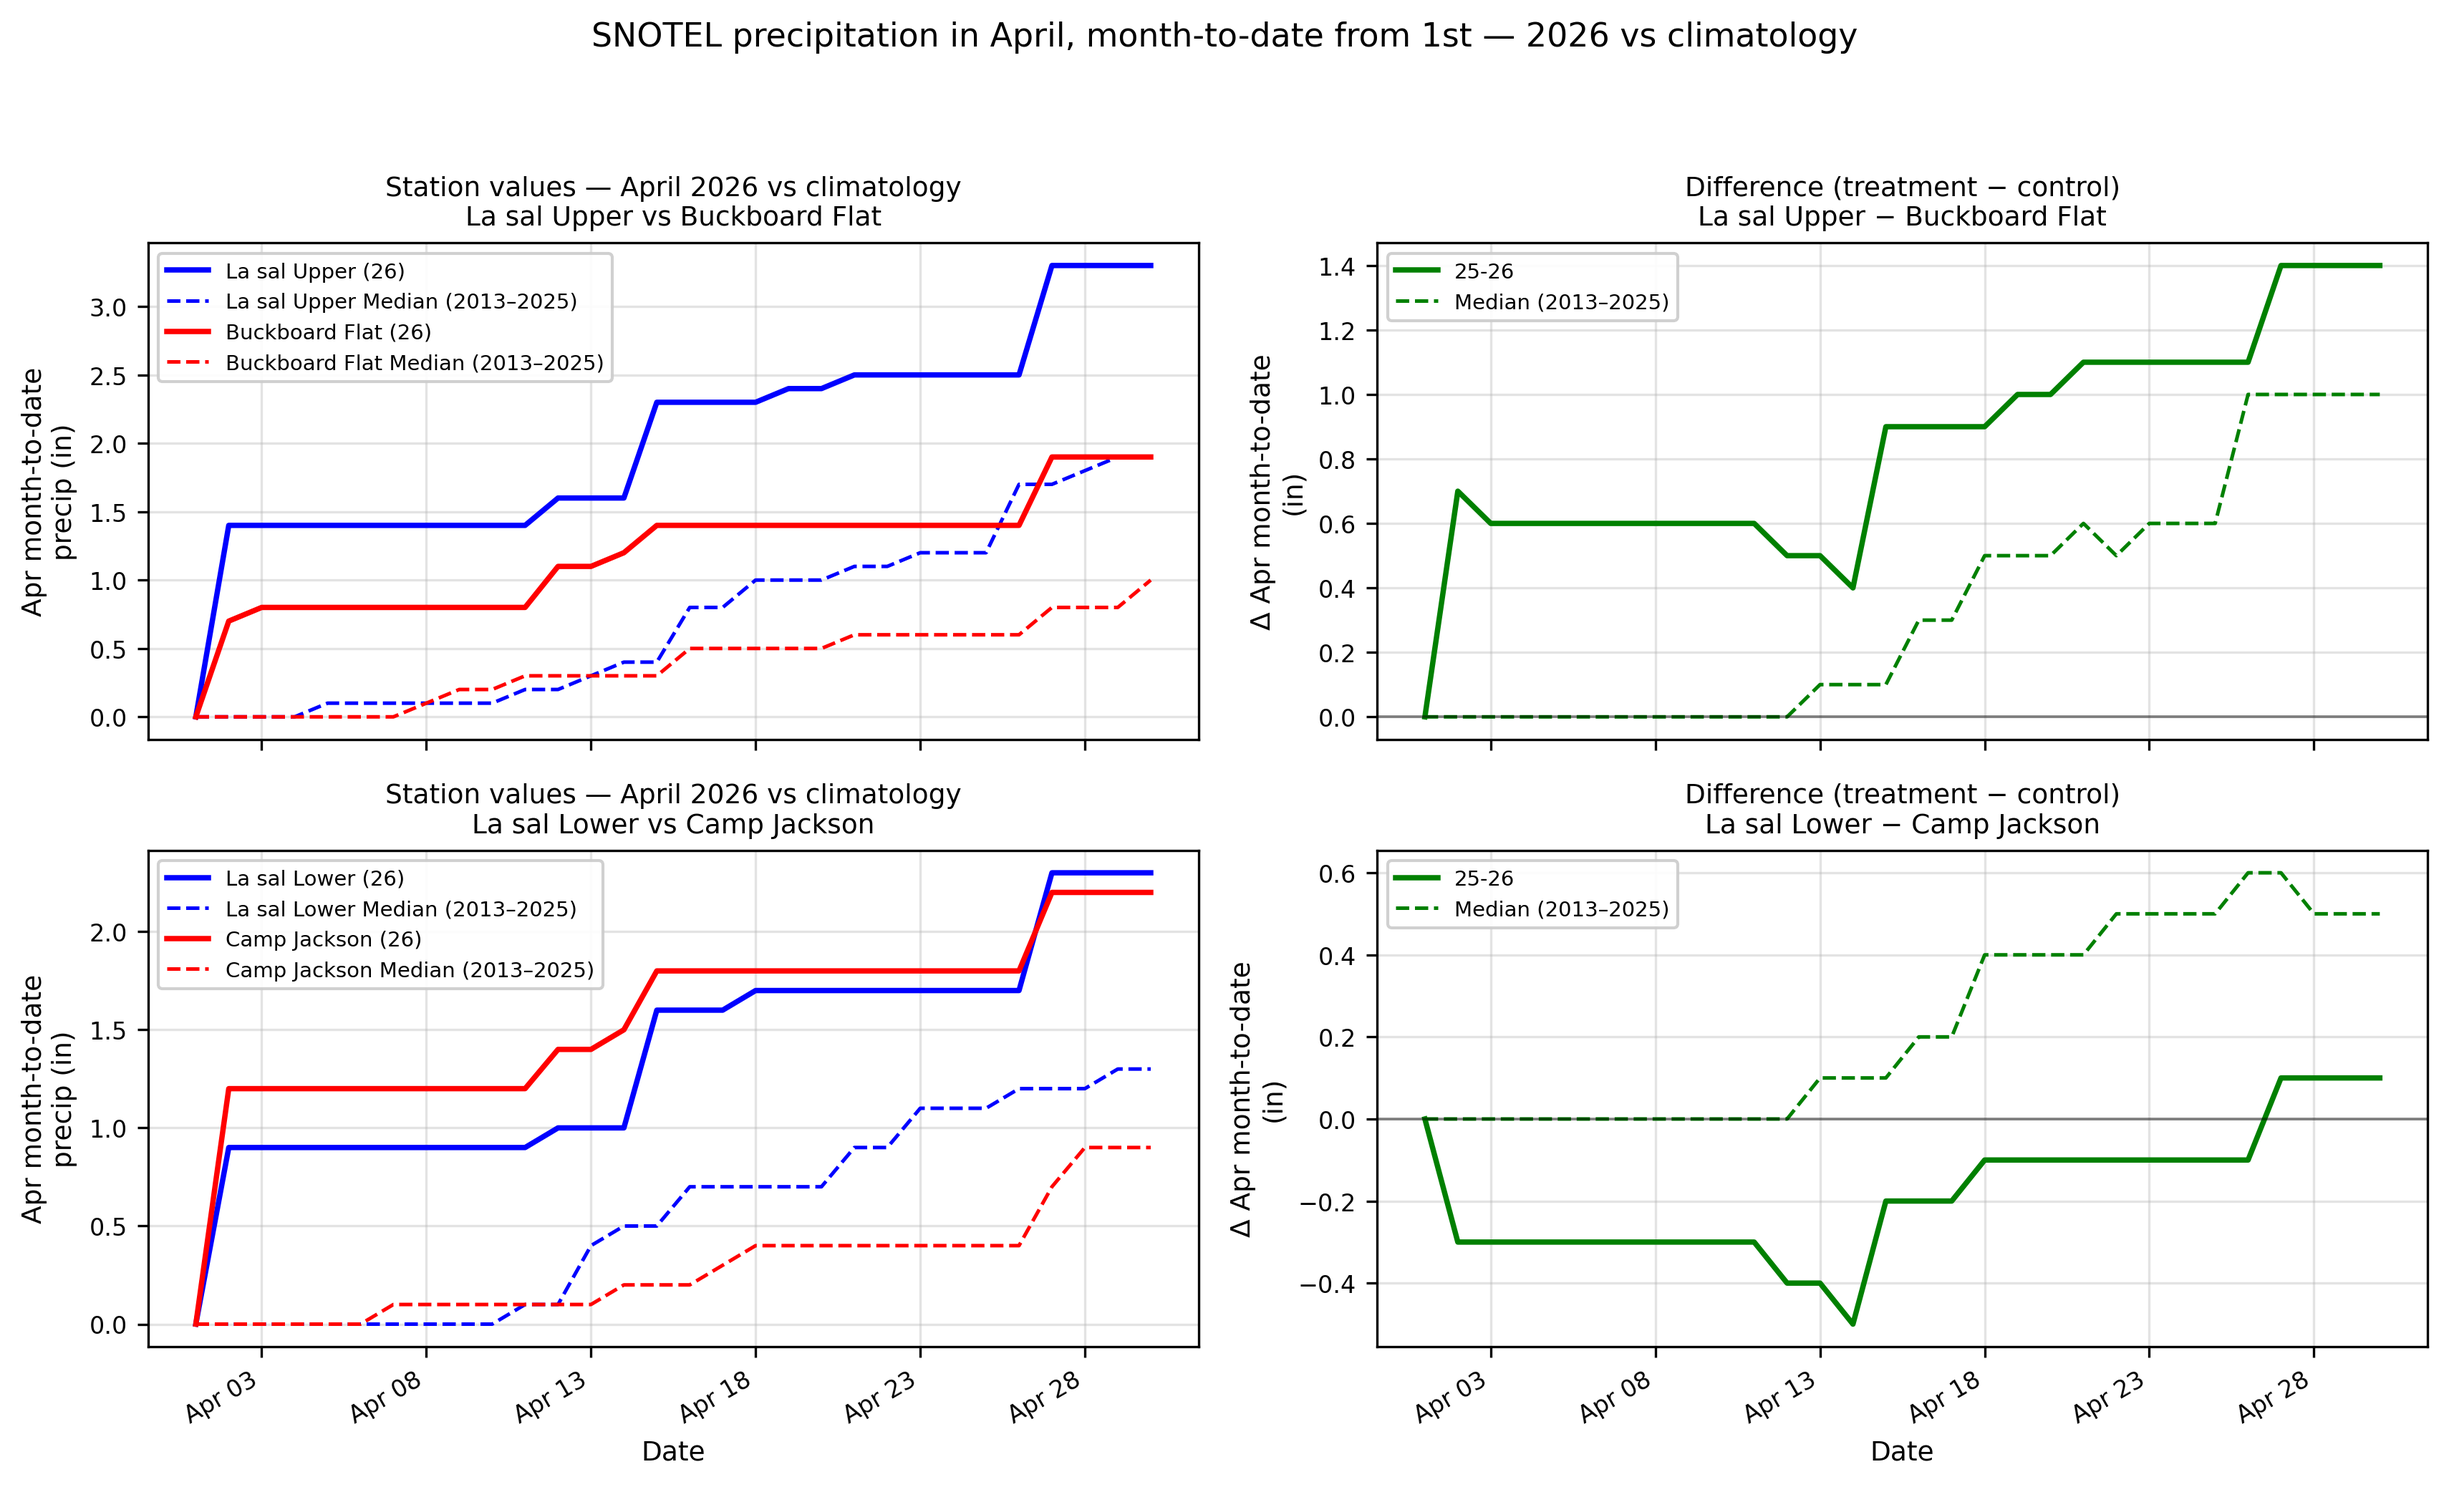
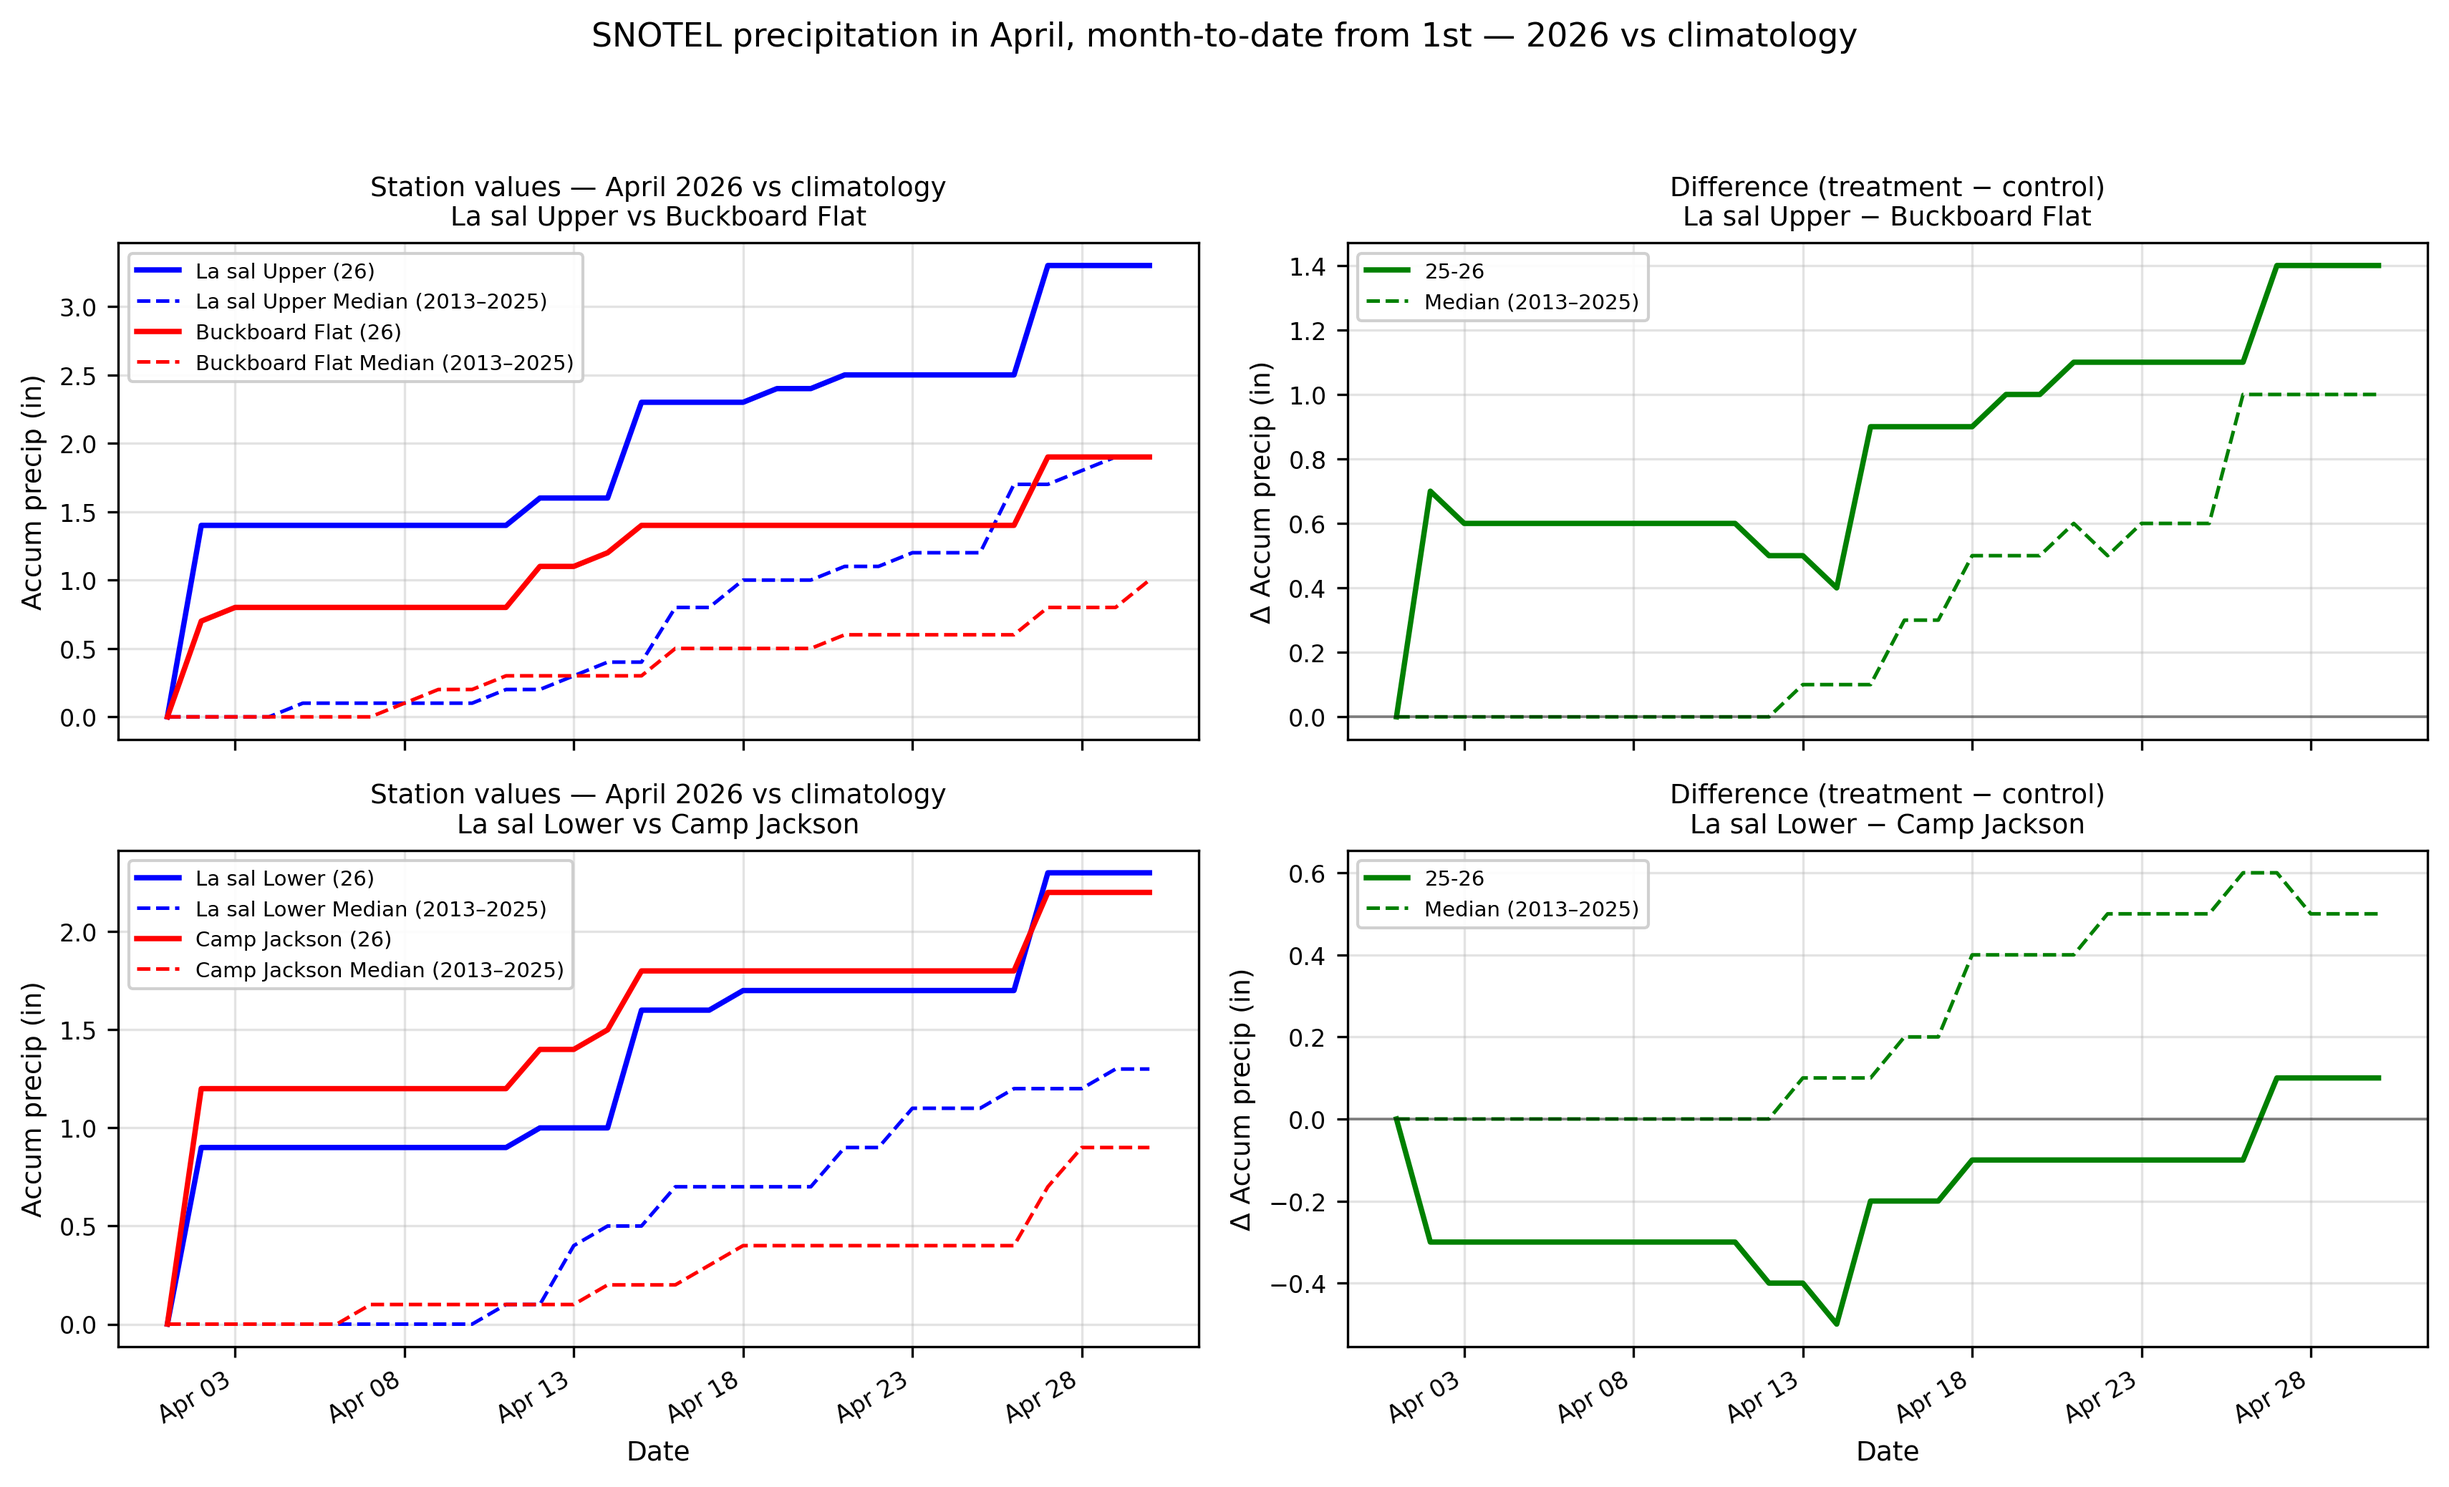
Precip accum daily plot: y-axis labels Accum precip (in) and delta form.
Replace month-to-date phrasing on the y-axes with short accum precip labels.

diff --git a/scripts/plot_generators.py b/scripts/plot_generators.py
@@ -864,7 +864,7 @@ def plot_precip_accum_timeseries_vs_climatology(
         ax_l.plot(x_num, v_c_cur, "r-", linewidth=1.8, label=f"{lab_c} ({str(year)[-2:]})")
         ax_l.plot(x_num, v_c_med, "r--", linewidth=1.2, label=f"{lab_c} {clim_label}")
 
-        ax_l.set_ylabel(f"{month_name[:3]} month-to-date\nprecip (in)", fontsize=9)
+        ax_l.set_ylabel("Accum precip (in)", fontsize=9)
         ax_l.grid(True, alpha=0.35)
         ax_l.legend(loc="upper left", fontsize=7, framealpha=0.92)
         ax_l.set_title(
@@ -887,7 +887,7 @@ def plot_precip_accum_timeseries_vs_climatology(
         ax_r.plot(x_num, d_cur, "g-", linewidth=1.8, label=wy_short)
         ax_r.plot(x_num, d_med, "g--", linewidth=1.2, label=clim_label)
         ax_r.axhline(0.0, color="black", linewidth=0.9, linestyle="-", alpha=0.45)
-        ax_r.set_ylabel(f"Δ {month_name[:3]} month-to-date\n(in)", fontsize=9)
+        ax_r.set_ylabel("Δ Accum precip (in)", fontsize=9)
         ax_r.grid(True, alpha=0.35)
         ax_r.legend(loc="upper left", fontsize=7, framealpha=0.92)
         ax_r.set_title(
